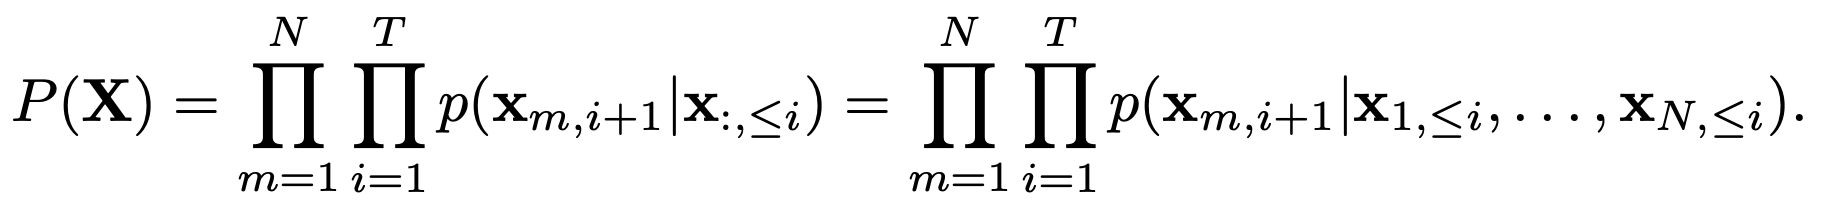
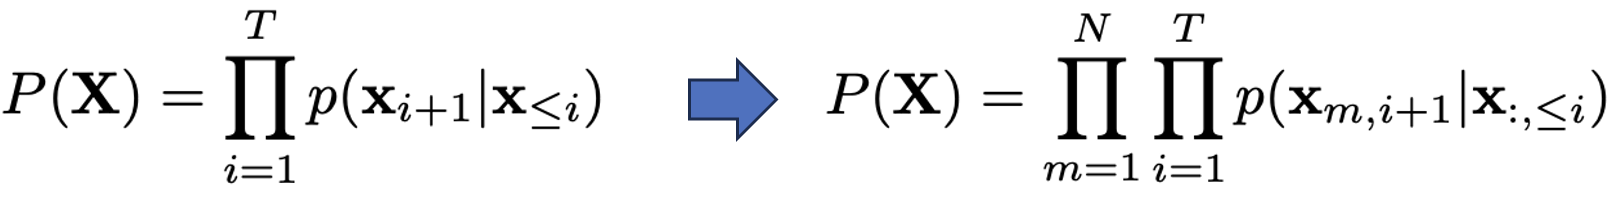
update

diff --git a/README.md b/README.md
@@ -8,17 +8,19 @@ Timer-XL: Long-Context Transformers for Unified Time Series Forecasting [[arxiv]
 
 🔥 Based on forecasting principles, we advocate to **extend the context length** in the time series field. 
 
-💡 To facilitate long-context Transformers on diverse tasks, we propose **multivariate next token prediction**, a novel paradigm to uniformly predict 1D and 2D time series with potential covariates. 
+💡 To facilitate long-context Transformers on diverse tasks, we propose **multivariate next token prediction**, a novel paradigm to uniformly predict 1D and 2D time series with optional covariates. 
 
 🌟 We present Timer-XL enhanced by a universal **TimeAttention** as an extra-long version of generative time-series Transformers ([Timer](https://github.com/thuml/Large-Time-Series-Model)) for unified time series forecasting.
 
-🏆 Timer-XL achieves **state-of-the-art** supervised performance and generalization capabilities as a one-for-all large time series model.
+🏆 Timer-XL achieves **state-of-the-art** on both supervised performance and generalization capabilities as a one-for-all large time series model.
 
 ## Updates
 
 :triangular_flag_on_post: **News** (2024.10) Code implementation and scripts will be released soon.
 
 ## What is New
+
+> For our previous large time series model, please refer to [**Tim**e-Series-Transform**er** (Timer)](https://github.com/thuml/Large-Time-Series-Model)
 
 ### Model Architecture
 
@@ -30,13 +32,13 @@ Timer-XL: Long-Context Transformers for Unified Time Series Forecasting [[arxiv]
 
 ### Long-Context Benchmark
 
-We establish challenging benchmarks with yearly contexts based on [ECMWF Reanalysis v5 (ERA5)](https://www.ecmwf.int/en/forecasts/dataset/ecmwf-reanalysis-v5).
+We establish new forecasting benchmarks with yearly contexts and correlated variables based on [ECMWF Reanalysis v5 (ERA5)](https://www.ecmwf.int/en/forecasts/dataset/ecmwf-reanalysis-v5) for the advancement of this field:
 
 * **ERA5-S (Univariate)**: Three-hour frequency atmospheric dataset spanning 40 years from ERA5, encompassing 116880 time points.
 
 * **ERA5-MS (Multivariate)**: A collection of multi-station ERA5-S datasets to provides partial observations governed by the spatio–temporal weather system.
 
-* **ERA5-Large (Pretrain)**: A large collection that evenly covers meteorological 4920 worldwide stations, aiming to build a domain-specific large model.
+* **ERA5-Large (Pretrain)**: A larger collection that evenly covers meteorological 4920 worldwide stations, aiming to build a domain-specific large model.
 
 The well-processed datasets and dataloaders will be released soon.
 
@@ -44,7 +46,7 @@ The well-processed datasets and dataloaders will be released soon.
 
 ### Multivariate Next Token Prediction
 
-We generalize next token prediction, predominantly adopted for causal generation of 1D sequences to multivariate time series. **Each prediction is made based on tokens of the previous time from all variables**:
+We generalize next token prediction, predominantly adopted for causal generation of 1D sequences to multivariate time series. **Each prediction is made based on tokens of the previous time from multiple variables**:
 
 <p align="center">
 <img src="./figures/mntp.png" alt="" align=center />
